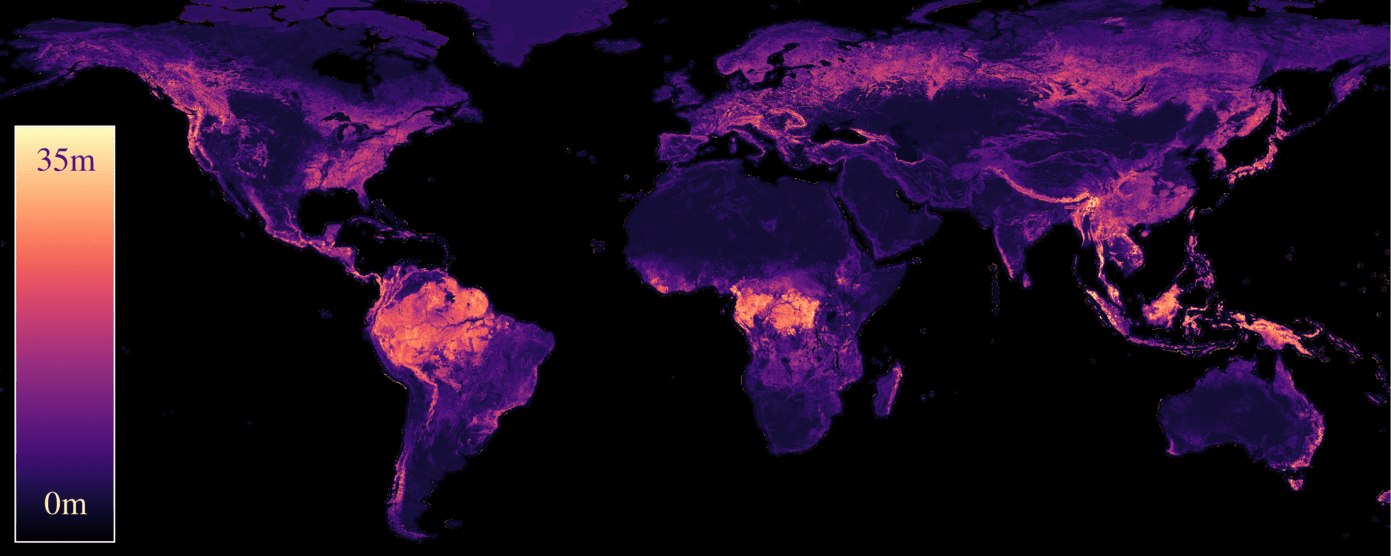
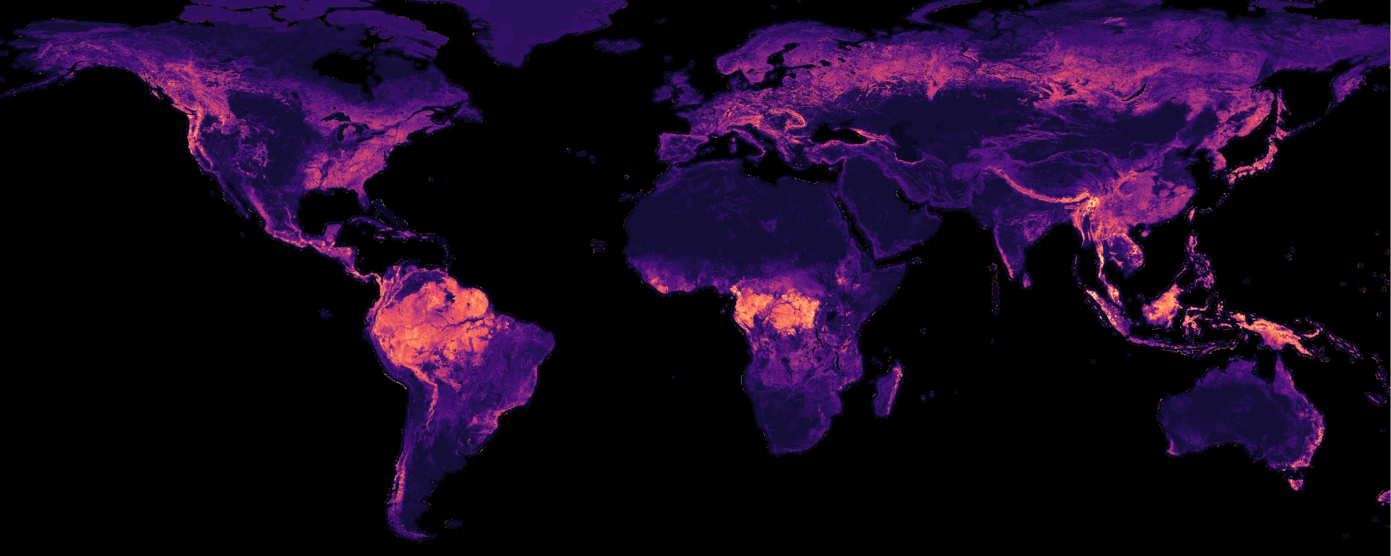
added contact information; changed pictures people; sidebar

Changed region(s): [[0.0, 0.214, 0.0927, 0.9784]]

diff --git a/src/researchers.html b/src/researchers.html
@@ -6,12 +6,12 @@ page_header:
   background_image: "/assets/images/people/berlin_team.jpeg"
 ---
 
-<div class="wrapper light-wrapper">
+<div class="wrapper light-wrapper" style="margin-top: -150px;">
   <div class="container-fluid inner px-5">
-    <div class="row justify-content-center">
+    <div class="row">
       <div class="col-lg-12">
         <p class="lead text-left mb-40">
-          AI4Forest is coordinated by a distinguished team of scientists from leading French and German research institutions. Their expertise spans climate science, remote sensing, artificial intelligence, optimization, and forest ecosystem dynamics. Together, they guide the strategic direction of the project, ensuring scientific excellence and effective integration of interdisciplinary approaches for advancing forest monitoring at global scale.
+          AI4Forest is coordinated by a distinguished team of scientists from leading French and German research institutions. Their expertise spans over climate science, remote sensing, artificial intelligence, optimization to forest ecosystem dynamics. Together, they guide the strategic direction of the project, ensuring scientific excellence and effective integration of interdisciplinary approaches for advancing forest monitoring at national and global scale.
         </p>
         <div class="mb-40 coordinator-bios">
           <p><strong>Philippe Ciais</strong> is Research Director at LSCE, specializing in quantifying the global carbon cycle and forest–climate interactions via remote sensing.</p>
@@ -33,9 +33,11 @@ page_header:
       {% for member in site.data.team.coordinators %}
       {% assign random_blob = forloop.index0 | plus: 1 | times: 7 | modulo: 8 | plus: 1 %}
       <div class="col-lg-2 col-md-4 mx-2">
+        {% if member.image_file and member.image_file != '' and member.image_file != ' ' %}
         <figure class="img-blob blob{{ random_blob }} mb-25 profilepic">
           <img src="{{relative_url}}/assets/images/people/{{ member.image_file }}" alt="{{ member.first_name }} {{ member.last_name }}" style="width: 15rem;" />
         </figure>
+        {% endif %}
         <h4 class="mb-15 text-center">{{ member.first_name }}</br>{{ member.last_name }}</h4>
         <div class="meta mb-5 text-center">{{ member.lab_name }}</div>
         <ul class="social social-s ml-auto">
@@ -79,10 +81,15 @@ page_header:
       {% for member in site.data.team.researchers %}
       {% assign random_blob = forloop.index0 | plus: 1 | times: 13 | modulo: 8 | plus: 1 %}
       <div class="col-lg-2 col-md-4 mx-2">
+        {% if member.image_file and member.image_file != '' and member.image_file != ' ' %}
         <figure class="img-blob blob{{ random_blob }} mb-25 profilepic">
           <img src="{{relative_url}}/assets/images/people/{{ member.image_file }}" alt="{{ member.first_name }} {{ member.last_name }}" style="width: 15rem;" />
         </figure>
         <h4 class="mb-15 text-center">{{ member.first_name }}</br>{{ member.last_name }}</h4>
+        {% else %}
+        <div style="height: 9.2rem;"></div>
+        <h4 class="mb-15 text-center">{{ member.first_name }}</br>{{ member.last_name }}</h4>
+        {% endif %}
         <div class="meta mb-5 text-center">{{ member.lab_name }}</div>
         <ul class="social social-s ml-auto">
           <li>

diff --git a/src/includes/ai4forest_info.html b/src/includes/ai4forest_info.html
@@ -1,0 +1,58 @@
+<div class="offcanvas-info inverse-text" style="background-image: url('{{site.baseurl}}/assets/images/main_page/background_tree_3.png'); background-repeat: no-repeat; background-position: top right; background-size: 150px;">
+  <button class="plain offcanvas-close offcanvas-info-close"><i class="jam jam-close"></i></button>
+  <a href="{{site.baseurl}}/">
+    <img src="{{site.data.general_settings.light_logo_1x}}"
+      srcset="{{site.data.general_settings.light_logo_1x}} 1x, {{site.data.general_settings.light_logo_2x}} 2x"
+      class="logo-light" alt="{{site.data.general_settings.title}}" />
+  </a>
+  <div class="space10"></div>
+  <h3 class="mb-0"><strong>AI4Forest</strong></h3>
+  <div class="space30"></div>
+  <p>AI4Forest is a research project that combines artificial intelligence and forest science to better understand and manage forest ecosystems.</p>
+  <div class="space20"></div>
+  <div class="widget">
+    <h5 class="widget-title">Research Areas</h5>
+    <ul class="list-unstyled">
+      <li>Climate Science</li>
+      <li>Remote Sensing</li>
+      <li>Artificial Intelligence</li>
+      <li>Forest Ecosystem Dynamics</li>
+      <li>Optimization</li>
+    </ul>
+  </div>
+  <!-- /.widget -->
+  <div class="widget">
+    <h5 class="widget-title">Contact Principal Investigators</h5>
+    <address>
+      <strong>Prof. Dr. Philippe Ciais</strong><br>
+      Laboratoire des Sciences du Climat et de l'Environnement<br>
+      Université Paris Saclay<br>
+      Tél. : 01.69.08.95.06<br>
+      <a href="mailto:philippe.ciais@lsce.ipsl.fr" class="nocolor">philippe.ciais (at) lsce.ipsl.fr</a>
+      <div class="space20"></div>
+      <strong>Prof. Alexandre d'Aspremont</strong><br>
+      CNRS - ENS<br>
+      45 rue d'Ulm<br>
+      Paris, France<br>
+      48 rue Barrault<br>
+      75013 Paris<br>
+      <a href="mailto:aspremon@ens.fr" class="nocolor">aspremon (at) ens.fr</a>
+      <div class="space20"></div>
+      <strong>Prof. Dr. Fabian Gieseke</strong><br>
+      University of Münster<br>
+      Leonardo Campus 3<br>
+      48149 Münster<br>
+      Telefon: +49 251 83-38151<br>
+      <a href="mailto:fabian.gieseke@wi.uni-muenster.de" class="nocolor">fabian.gieseke (at) wi.uni-muenster.de</a>
+      <div class="space20"></div>
+      <strong>Prof. Dr. Cornelius Senf</strong><br>
+      School of Life Sciences<br>
+      Hans-Carl-v.-Carlowitz-Platz 2<br>
+      85354 Freising<br>
+      Tel.: +49.8161.71.4371<br>
+      <a href="mailto:office.eoem@ls.tum.de" class="nocolor">office.eoem (at) ls.tum.de</a>
+    </address>
+  </div>
+  <!-- /.widget -->
+</div>
+<!-- /.offcanvas-info --> 

diff --git a/src/index.html b/src/index.html
@@ -29,8 +29,8 @@ hero_area:
   #         url: "https://www.ls.tum.de/en/ls/home/"
   #         custom_style: "max-height: 70px; width: auto;"
   #         wide: true
-  #       - title: "WWU"
-  #         image: "/assets/images/logos/Universitaet_Münster.jpg"
+  #       - title: "Uni Münster"
+  #         image: "/assets/images/logos/universitat-munster.png"
   #         url: "https://www.uni-muenster.de/de/"
   #         custom_style: "max-height: 70px; width: auto;"
   #         wide: true
@@ -151,25 +151,25 @@ logo_blocks:
         style: "max-height: 70px; width: auto;"
       - image: "/assets/images/logos/TUM.png"
         url: "https://www.ls.tum.de/en/ls/home/"
-        style: "max-height: 70px; width: auto;"
-      - image: "/assets/images/logos/Universitaet_Münster.jpg"
+        style: "max-height: 90px; width: auto;"
+      - image: "/assets/images/logos/universitat-munster.png"
         url: "https://www.uni-muenster.de/de/"
-        style: "max-height: 80px; width: auto;"
+        style: "max-height: 240px; width: auto;"
       - image: "/assets/images/logos/ZIB.png"
         url: "https://www.zib.de/"
-        style: "max-height: 70px; width: auto;"
+        style: "max-height: 60px; width: auto;"
   - enable: true
     title: "Grant Providers"
     logos:
       - image: "/assets/images/logos/ANR.jpg"
         url: "https://anr.fr/"
-        style: "max-height: 70px; width: auto;"
+        style: "max-height: 50px; width: auto;"
       - image: "/assets/images/logos/bmbf.jpg"
         url: "https://www.bmbf.de/DE/Home/home_node.html"
-        style: "max-height: 100px; width: auto;"
+        style: "max-height: 130px; width: auto;"
       - image: "/assets/images/logos/dlr.svg"
         url: "https://projekttraeger.dlr.de/de"
-        style: "max-height: 100px; width: auto;"
+        style: "max-height: 80px; width: auto;"
 
 services_area:
   enable: false

diff --git a/src/includes/ai4forest_sidebar.html b/src/includes/ai4forest_sidebar.html
@@ -1,0 +1,24 @@
+<div class="sidebox widget">
+  <h3 class="widget-title">About AI4Forest</h3>
+  <p>AI4Forest is a collaborative research project focused on advancing forest monitoring through artificial intelligence and remote sensing technologies.</p>
+  <div class="space20"></div>
+  <h4>Key Areas</h4>
+  <ul class="unordered-list">
+    <li>Climate Science</li>
+    <li>Remote Sensing</li>
+    <li>Artificial Intelligence</li>
+    <li>Forest Ecosystem Dynamics</li>
+    <li>Optimization</li>
+  </ul>
+  <div class="space20"></div>
+  <h4>Research Institutions</h4>
+  <ul class="unordered-list">
+    <li>LSCE</li>
+    <li>ENS</li>
+    <li>University of Münster</li>
+    <li>Zuse Institute Berlin</li>
+    <li>TU Berlin</li>
+    <li>TUM</li>
+  </ul>
+</div>
+<!-- /.widget --> 

diff --git a/src/includes/footer.html b/src/includes/footer.html
@@ -1,13 +1,6 @@
   <footer class="{% if include.extra_class %} {{include.extra_class}} {% else %} dark-wrapper inverse-text {% endif %}" style="padding: 0.8rem 0 0 0;">
     <div class="container-fluid inner" style="margin: 0; padding: 0;">
       <div class="row" style="margin: 0;">
-        <div class="col-12 text-center" style="margin: 0; padding: 0;">
-          <h3 class="widget-title" style="margin: 0; padding: 0; font-size: 0.75rem;">Get in Touch!</h3>
-        </div>
-      </div>
-    </div>
-    <div class="container-fluid inner" style="margin: 0; padding: 0;">
-      <div class="row" style="margin: 0;">
         <div class="col-lg-3">
           <div class="widget">
             <h3 class="widget-title" style="margin: 0; font-size: 0.75rem;">AI4Forest</h3>

diff --git a/src/layouts/post.html b/src/layouts/post.html
@@ -69,10 +69,6 @@ layout: default
                     {% endcapture %}
                     {{ tags | split:'</li>' | sort | join:'</li>' }}
                 </ul>
-                <div class="space20 d-lg-none"></div>
-                <div class="d-flex align-items-center">
-                 {% include social_share.html %}
-                </div>
               </div>
             </div>
             <!-- /.post-content -->

diff --git a/src/includes/header.html b/src/includes/header.html
@@ -23,6 +23,9 @@
             <button class="hamburger animate plain" data-toggle="offcanvas-nav"><span></span></button>
           </div>
         </li>
+        <li class="nav-item">
+          <button class="plain" data-toggle="offcanvas-info"><i class="jam jam-info"></i></button>
+        </li>
         {% if page.header_style == 'three' %}
           {% include cart_header_section.html %}
         {% endif %}

diff --git a/src/layouts/default.html b/src/layouts/default.html
@@ -58,6 +58,7 @@
   <div class="content-wrapper">
     {{ content }}
   </div>
+  {% include ai4forest_info.html %}
   <script src="{{relative_url}}/assets/js/jquery.min.js"></script>
   <script src="{{relative_url}}/assets/js/popper.min.js"></script>
   <script src="{{relative_url}}/assets/js/bootstrap.min.js"></script>

diff --git a/src/publications.html b/src/publications.html
@@ -7,7 +7,7 @@ page_header:
 ---
 
 
-<div class="wrapper light-wrapper">
+<div class="wrapper light-wrapper" style="margin-top: -150px;">
   <div class="container inner">
     <h2 class="section-title mb-40 text-center">Research Publications</h2>
     <div class="row">
